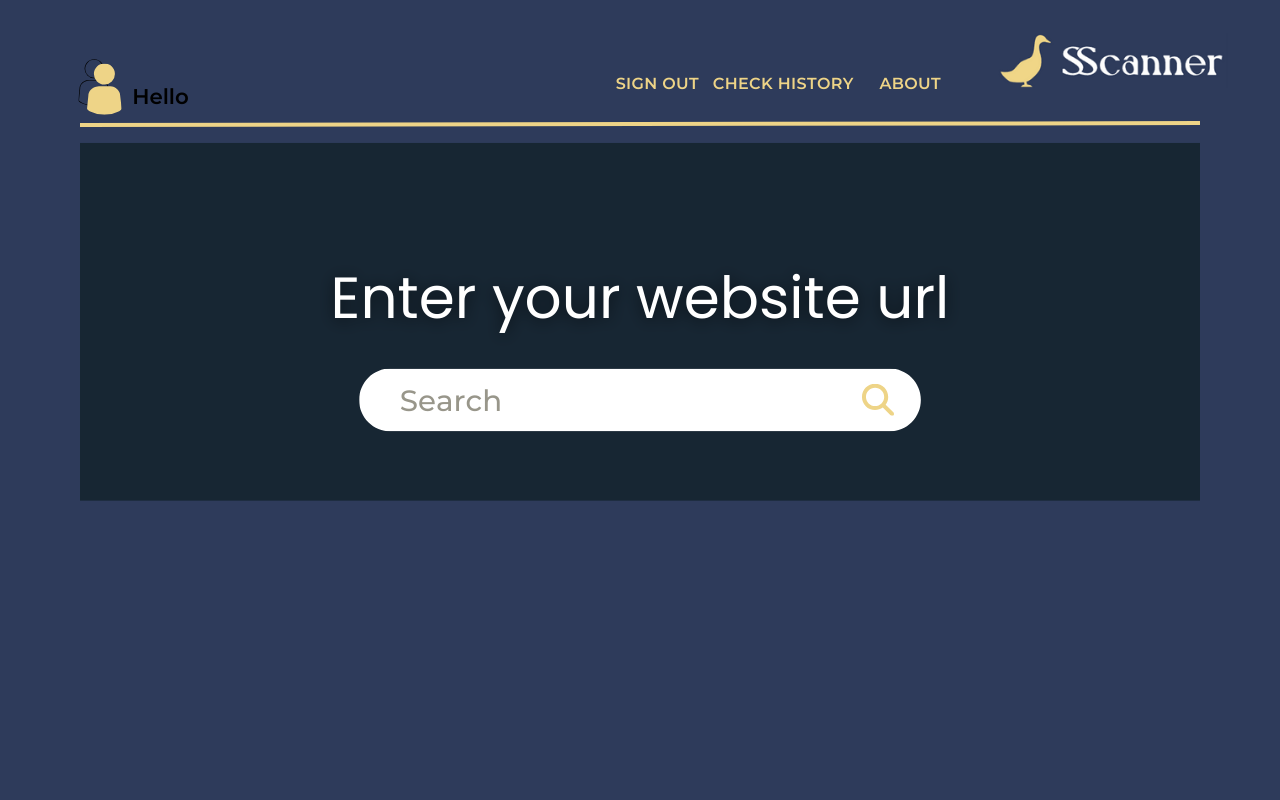
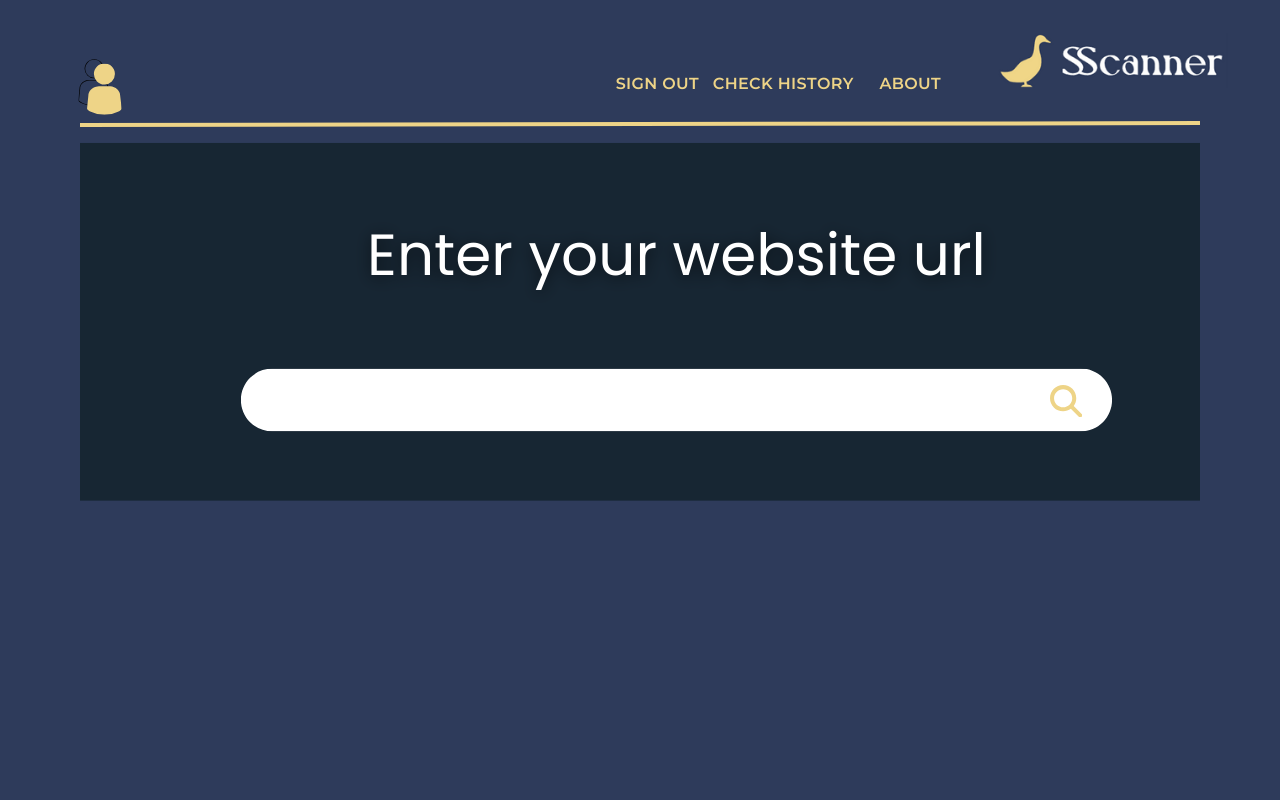
database

diff --git a/PTestToolWindow.py b/PTestToolWindow.py
@@ -1,7 +1,8 @@
 from PyQt5.QtWidgets import QLabel
-from BaseWindow import BaseWindow
 from hub import AboutWindow, MainWindow
 import userdatabase
+from BaseWindow import BaseWindow
+from PyQt5.QtWidgets import QLineEdit
 
 
 class PTestToolWindow(BaseWindow):
@@ -12,16 +13,16 @@ class PTestToolWindow(BaseWindow):
             AboutWindow))  # Assuming this should navigate to a HistoryWindow instead
         self.setup_buttons("SignIn", (613, 74), (85, 20), lambda: self.navigate_to(
             MainWindow))  # Assuming this is for logout, consider renaming the button
-        self.setup_buttons("temp", (851, 377), (50, 50),
-                           lambda: self.navigate_to(AboutWindow))  # Assuming this is a placeholder for a future feature
+        self.setup_buttons("search", (1035, 377), (50, 50),
+                           self.Ptest)  # Assuming this is a placeholder for a future feature
 
         # Fetch the client's name using the provided email
         client_name = userdatabase.get_username(email)
 
         # Create and configure the label to display the client's name
         self.client_name_label = QLabel(self)
-        self.client_name_label.setText(client_name)
-        self.client_name_label.setGeometry(192, 80, 200, 30)  # Adjust the size as needed
+        self.client_name_label.setText("Hello " + client_name)
+        self.client_name_label.setGeometry(135, 80, 200, 30)
         self.client_name_label.setStyleSheet("""
             color: black;
             background-color: transparent;
@@ -30,3 +31,15 @@ class PTestToolWindow(BaseWindow):
             font-weight: 500;
         """)
 
+        self.site_input = QLineEdit(self)
+        self.site_input.setGeometry(267, 370, 750, 63)
+        self.site_input.setStyleSheet(
+            "QLineEdit {"
+            "   color: black;"  # Set text color to black
+            "   background-color: transparent;"
+            "   border: none;"  # Make border transparent
+            "   font-size: 18px;"
+            "}")
+
+    def Ptest(self):
+        adress = self.site_input.text()
